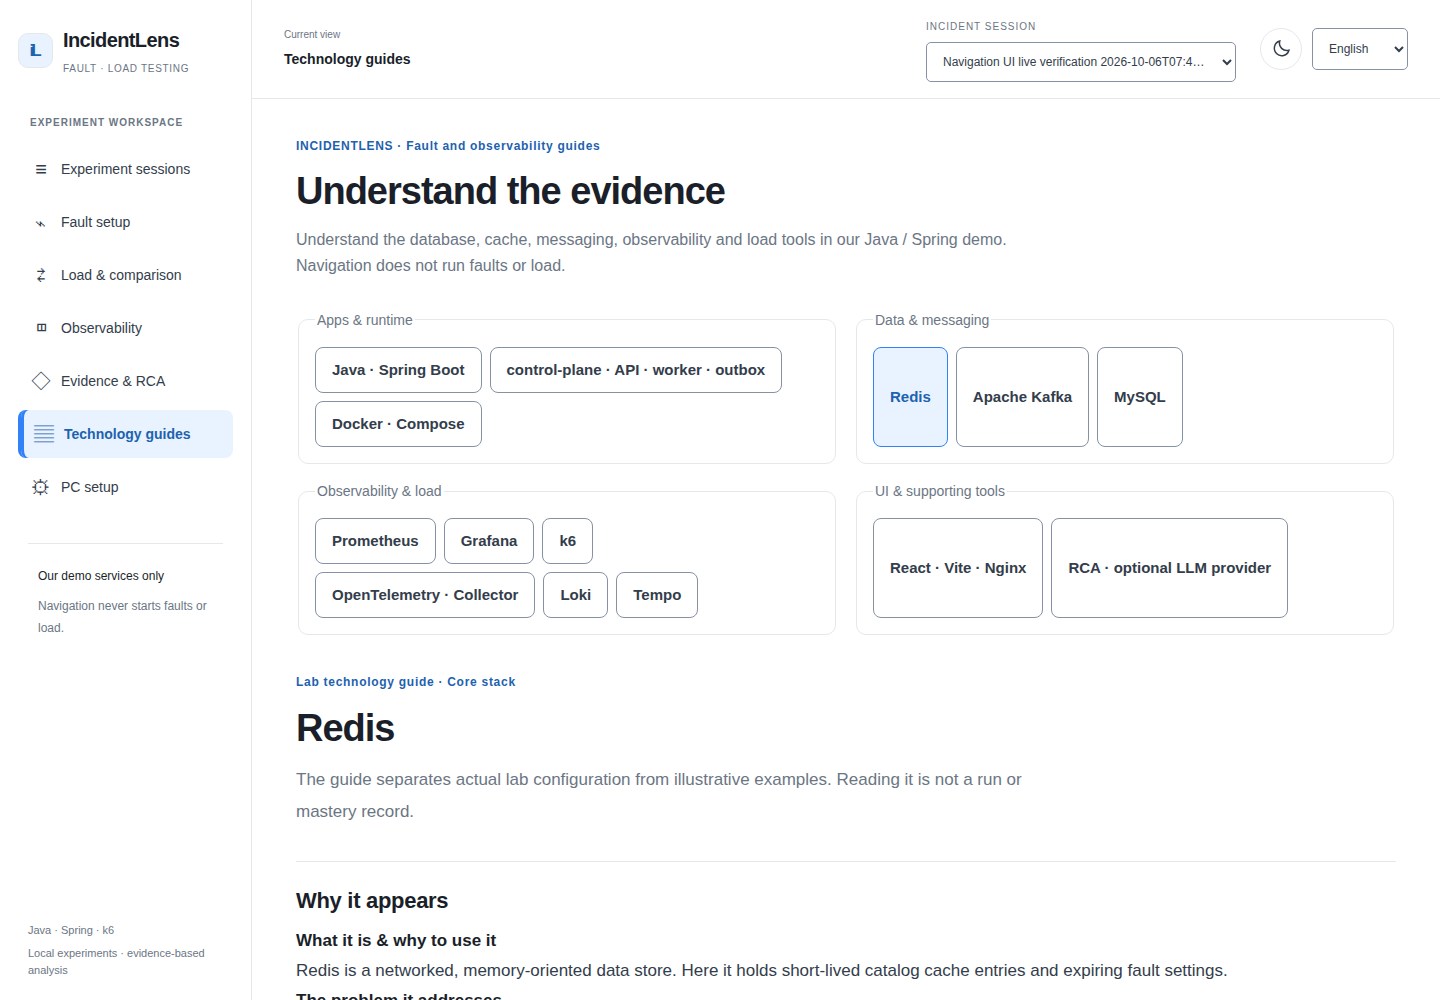
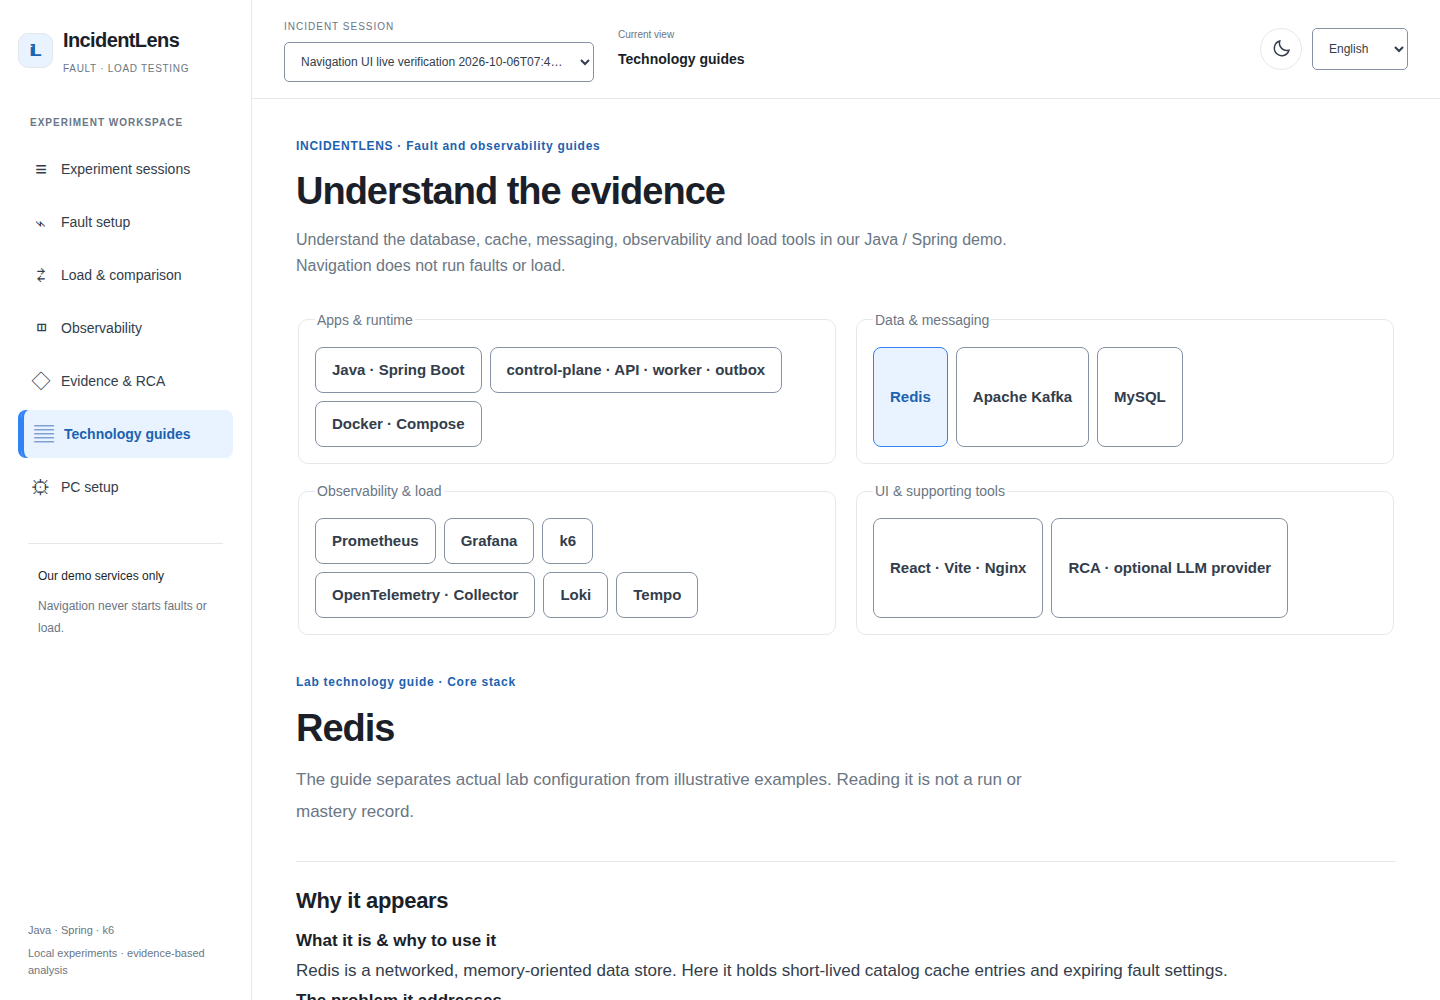
fix(web): align incident session header with content

Changed region(s): [[0.1875, 0.0, 0.375, 0.093], [0.6562, 0.0, 0.8125, 0.093], [0.4062, 0.031, 0.5312, 0.062]]

diff --git a/apps/web/src/tool-layout.css b/apps/web/src/tool-layout.css
@@ -1,4 +1,5 @@
 /* One experiment navigation, shared by every tool view. */
+.tool-shell {--tool-content-width:1500px;--tool-content-gutter:32px;}
 .tool-shell .tool-sidebar {position:fixed;inset:0 auto 0 0;width:252px;height:100dvh;padding:24px 18px 20px;display:flex;flex-direction:column;z-index:40;overflow-y:auto;border-right:1px solid var(--il-border);background:var(--il-surface);color:var(--il-text);}
 .tool-sidebar-brand {display:flex;align-items:center;gap:8px;margin-bottom:38px;}
 .tool-sidebar .brand {margin:0;font-size:20px;letter-spacing:-.6px;gap:10px;}
@@ -13,20 +14,22 @@
 .tool-shell .sidebar-note p {font-size:12px;line-height:1.85;margin-top:8px;color:var(--il-muted);}
 .tool-shell .sidebar-footer {display:block;margin-top:auto;padding:28px 10px 0;color:var(--il-muted);font-size:11px;line-height:1.6;}
 .tool-shell main {margin-left:252px;width:calc(100% - 252px);min-width:0;}
-.tool-topbar {display:flex;align-items:center;gap:24px;min-height:84px;padding:16px 32px;border-bottom:1px solid var(--il-border);background:var(--il-surface);}
+.tool-topbar {border-bottom:1px solid var(--il-border);background:var(--il-surface);}
+.tool-topbar-inner,.tool-shell .page-content {width:100%;max-width:var(--tool-content-width);padding-inline:var(--tool-content-gutter);margin-inline:auto;}
+.tool-topbar-inner {display:flex;flex-wrap:wrap;align-items:center;gap:24px;min-height:84px;padding-block:16px;}
 .tool-current-location {display:flex;flex-direction:column;gap:5px;min-width:0;flex-shrink:0;}
 .tool-current-location>span {font-size:10px;color:var(--il-muted);}
 .tool-current-location strong {font-size:14px;color:var(--il-heading);}
-.tool-selected-session {margin-left:auto;min-width:0;max-width:310px;}
+.tool-selected-session {flex:1 1 260px;min-width:0;max-width:310px;}
 .tool-selected-session .session-select {margin:0;gap:5px;}
 .tool-selected-session .session-select>span {font-size:10px;color:var(--il-muted);}
 .tool-selected-session select {width:100%;min-width:0;min-height:40px;max-width:310px;padding:8px 12px;font-size:12px;text-overflow:ellipsis;}
-.tool-topbar .topbar-preferences {margin-left:0;gap:10px;}
+.tool-topbar .topbar-preferences {margin-left:auto;gap:10px;}
 .tool-topbar .theme-toggle {width:42px;height:42px;display:grid;place-items:center;border-radius:50%;border:1px solid var(--il-border);background:var(--il-surface);color:var(--il-text);}
 .tool-topbar .theme-toggle svg {width:21px;height:21px;}
 .tool-topbar .language-select {min-height:42px;padding:8px 12px;font-size:12px;}
 .menu-toggle,.menu-close,.tool-mobile-brand,.tool-backdrop {display:none;}
-.tool-shell .page-content {padding:28px 32px 36px;max-width:1500px;margin:auto;}
+.tool-shell .page-content {padding-block:28px 36px;}
 .tool-shell .page-heading {margin-top:18px;}
 .tool-shell .page-footer {margin-top:40px;}
 .tool-shell .pc-settings {padding-top:24px;}
@@ -44,16 +47,17 @@
 .selected-session-summary dd {margin:8px 0 0;font-size:22px;color:var(--il-heading);font-weight:700;}
 .tool-shell.embedded-mode main {margin:0;width:100%;}
 .embedded-session-control {margin-bottom:20px;}
-@media(max-width:1100px){.tool-topbar{gap:16px;padding:14px 24px;}.tool-shell .page-content{padding-inline:24px;}.tool-selected-session{max-width:240px;}.selected-session-summary{align-items:flex-start;flex-direction:column;}}
+@media(max-width:1100px){.tool-shell{--tool-content-gutter:24px;}.tool-topbar-inner{gap:16px;padding-block:14px;}.tool-selected-session{max-width:240px;}.selected-session-summary{align-items:flex-start;flex-direction:column;}}
 @media(max-width:820px){
+ .tool-shell {--tool-content-gutter:17px;}
  .tool-shell main {margin:0;width:100%;}
  .tool-shell .tool-sidebar {display:none;width:min(310px,calc(100vw - 32px));z-index:80;padding:22px 18px;box-shadow:12px 0 30px #0003;}
  .tool-shell .tool-sidebar.open {display:flex;}
  .tool-backdrop {display:block;position:fixed;inset:0;z-index:75;background:rgb(0 0 0 / 45%);}
  .menu-close {display:block;margin-left:auto;min-width:44px;min-height:44px;border:1px solid var(--il-border);border-radius:8px;background:var(--il-surface);color:var(--il-text);font-size:26px;}
- .tool-topbar {display:grid;grid-template-columns:44px minmax(0,1fr) auto;gap:12px 10px;padding:14px 17px;}
+ .tool-topbar-inner {display:grid;grid-template-columns:44px minmax(0,1fr) auto;gap:12px 10px;padding-block:14px;}
  .menu-toggle {display:block;min-width:44px;min-height:44px;border:1px solid var(--il-border);border-radius:8px;background:var(--il-surface);color:var(--il-text);font-size:21px;}
- .tool-mobile-brand {display:block;border:0;padding:0;text-align:left;font-size:16px;font-weight:750;background:transparent;color:var(--il-heading);}
+ .tool-mobile-brand {display:block;border:0;padding:0;text-align:left;font-size:16px;font-weight:750;background:transparent;color:var(--il-heading);overflow-wrap:anywhere;}
  .tool-topbar .topbar-preferences {grid-column:3;grid-row:1;gap:7px;}
  .tool-topbar .theme-toggle {width:40px;height:40px;}
  .tool-topbar .language-select {padding:7px;max-width:96px;min-height:40px;}
@@ -61,7 +65,7 @@
  .tool-current-location>span {font-size:10px;}
  .tool-selected-session {grid-row:3;grid-column:1/-1;margin:0;max-width:none;width:100%;}
  .tool-selected-session select {max-width:none;width:100%;}
- .tool-shell .page-content {padding:22px 17px 30px;}
+ .tool-shell .page-content {padding-block:22px 30px;}
  .selected-session-summary {padding:22px;gap:18px;}
  .selected-session-summary dl {gap:20px;flex-wrap:wrap;}
  .selected-session-summary dd {font-size:19px;}

diff --git a/apps/web/src/ToolLayout.tsx b/apps/web/src/ToolLayout.tsx
@@ -31,7 +31,7 @@ export default function ToolLayout({page,items,onNavigate,preferences,sessionCon
       </aside>
     </>}
     <main>
-      {!embedded&&<header className="tool-topbar"><button ref={toggle} className="menu-toggle" aria-controls="tool-navigation" aria-expanded={open} aria-label={label('탐색 메뉴 열기','Open navigation')} onClick={()=>setOpen(!open)}><span aria-hidden="true">☰</span></button><button className="tool-mobile-brand" onClick={()=>navigate('sessions')} aria-label={label('IncidentLens 실험 세션','IncidentLens experiment sessions')}>IncidentLens</button><div className="tool-current-location"><span>{label('현재 위치','Current view')}</span><strong>{current}</strong></div><div className="tool-selected-session">{sessionControl}</div><div className="topbar-preferences">{preferences}</div></header>}
+      {!embedded&&<header className="tool-topbar"><div className="tool-topbar-inner"><button ref={toggle} className="menu-toggle" aria-controls="tool-navigation" aria-expanded={open} aria-label={label('탐색 메뉴 열기','Open navigation')} onClick={()=>setOpen(!open)}><span aria-hidden="true">☰</span></button><button className="tool-mobile-brand" onClick={()=>navigate('sessions')} aria-label={label('IncidentLens 실험 세션','IncidentLens experiment sessions')}>IncidentLens</button><div className="tool-selected-session">{sessionControl}</div><div className="tool-current-location"><span>{label('현재 위치','Current view')}</span><strong>{current}</strong></div><div className="topbar-preferences">{preferences}</div></div></header>}
       {children}
     </main>
   </div>;
